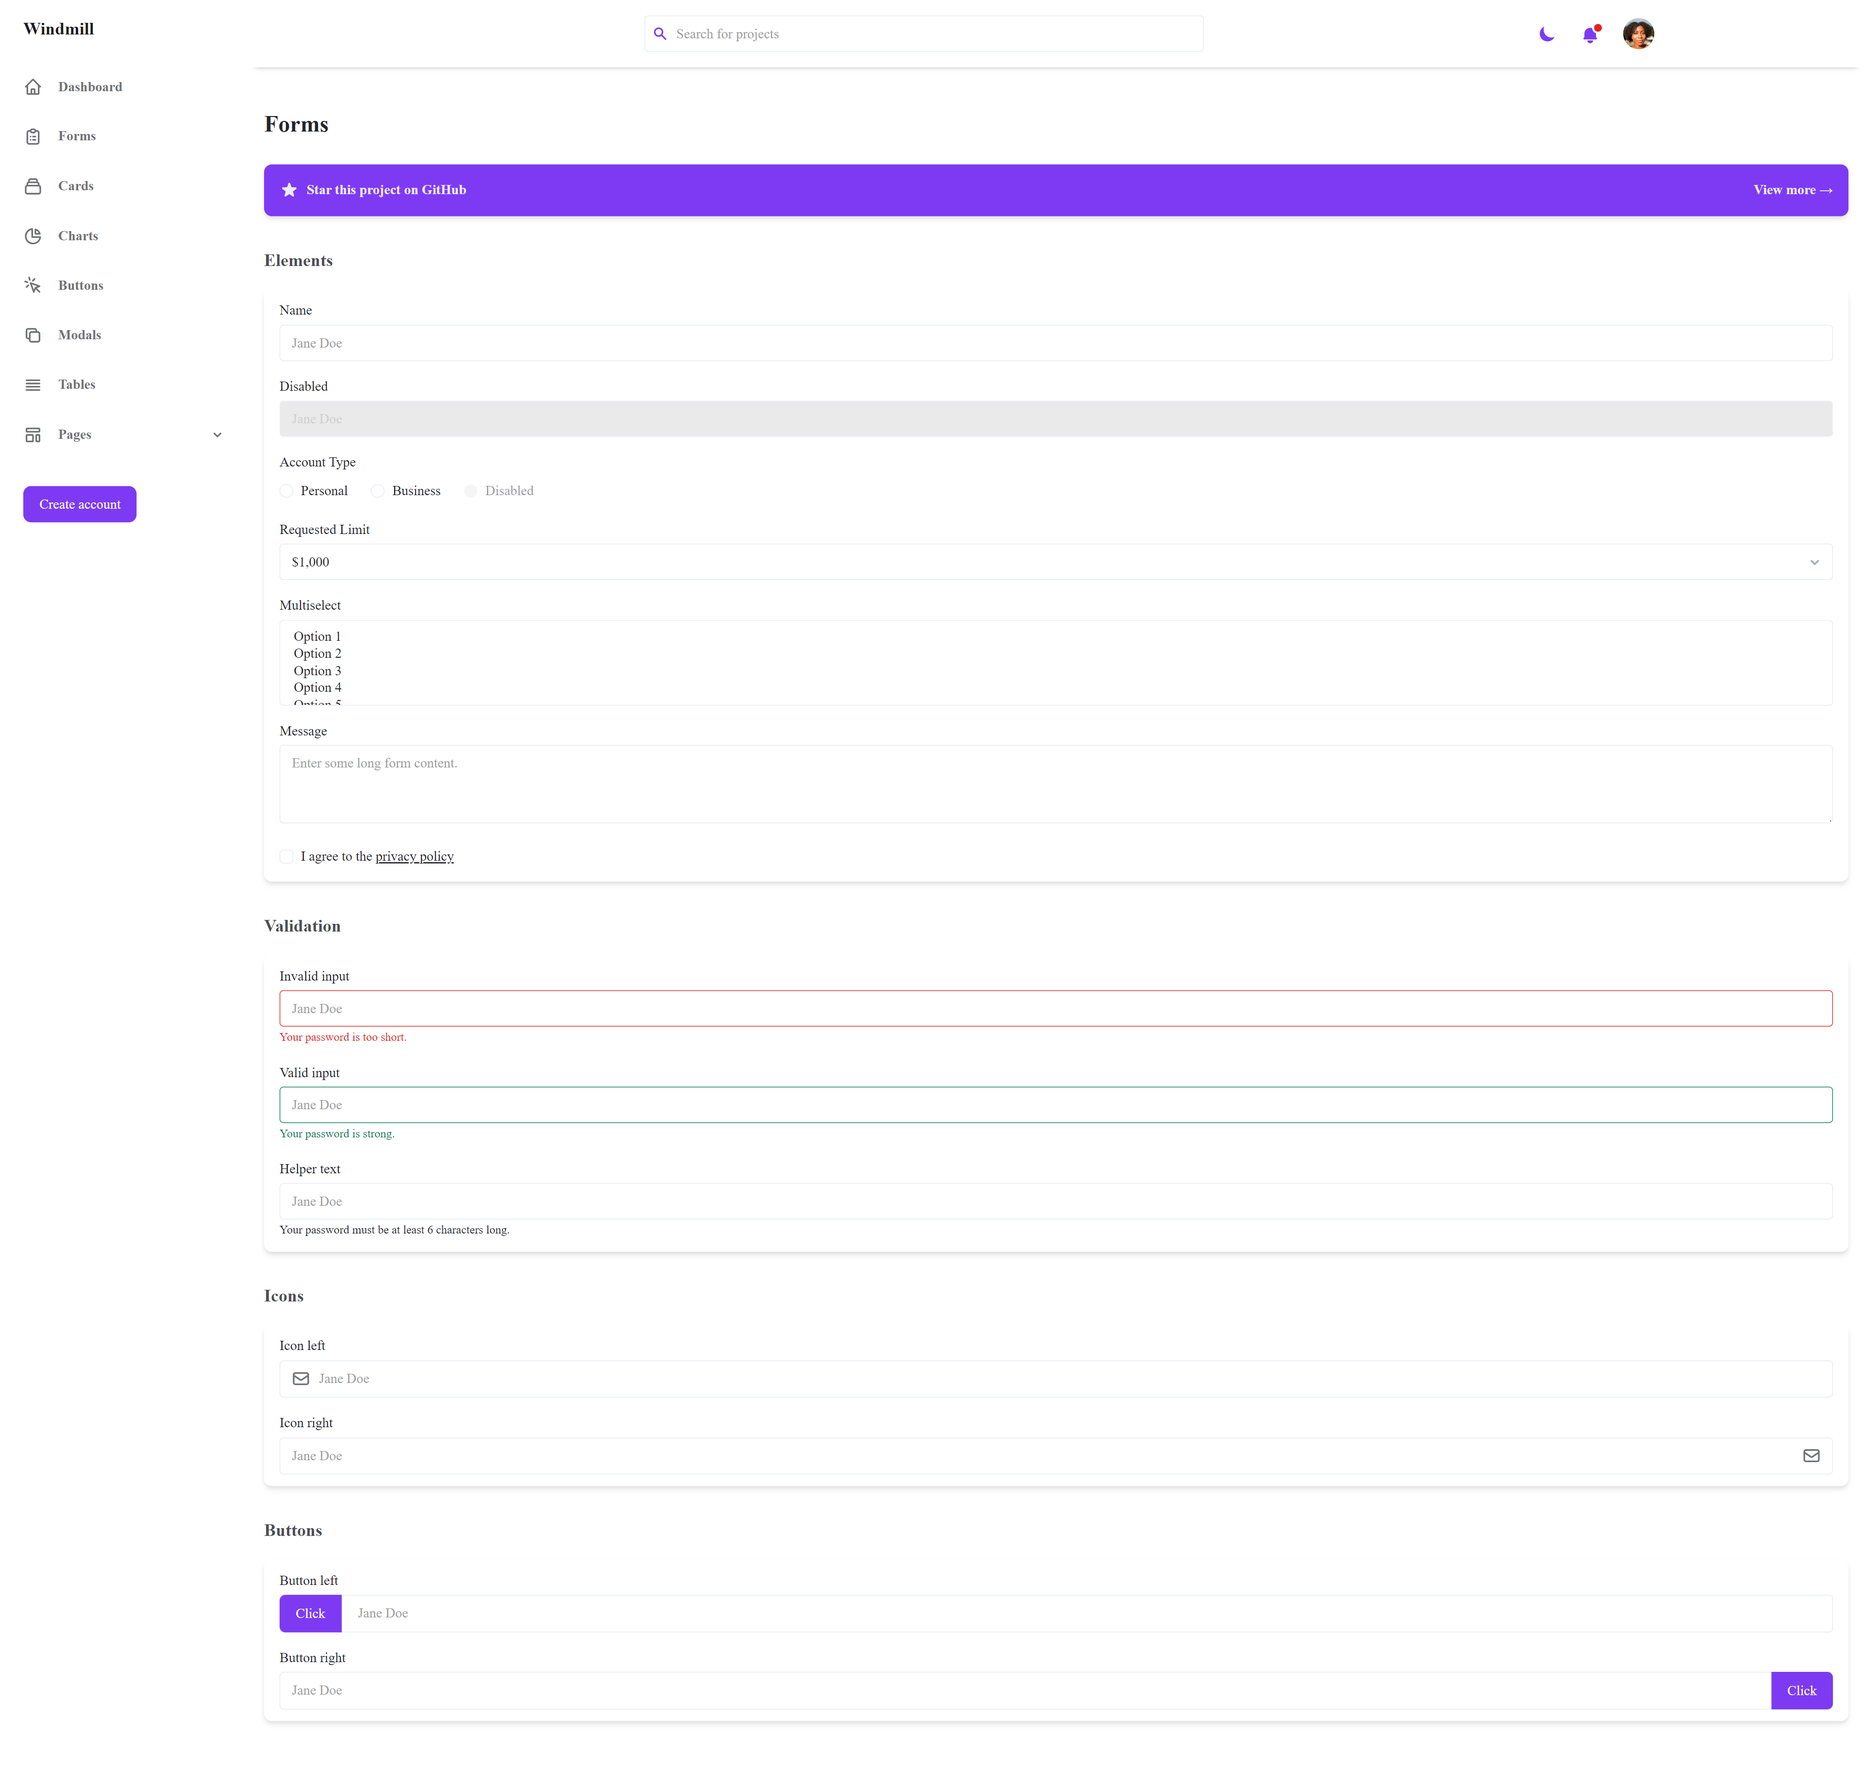
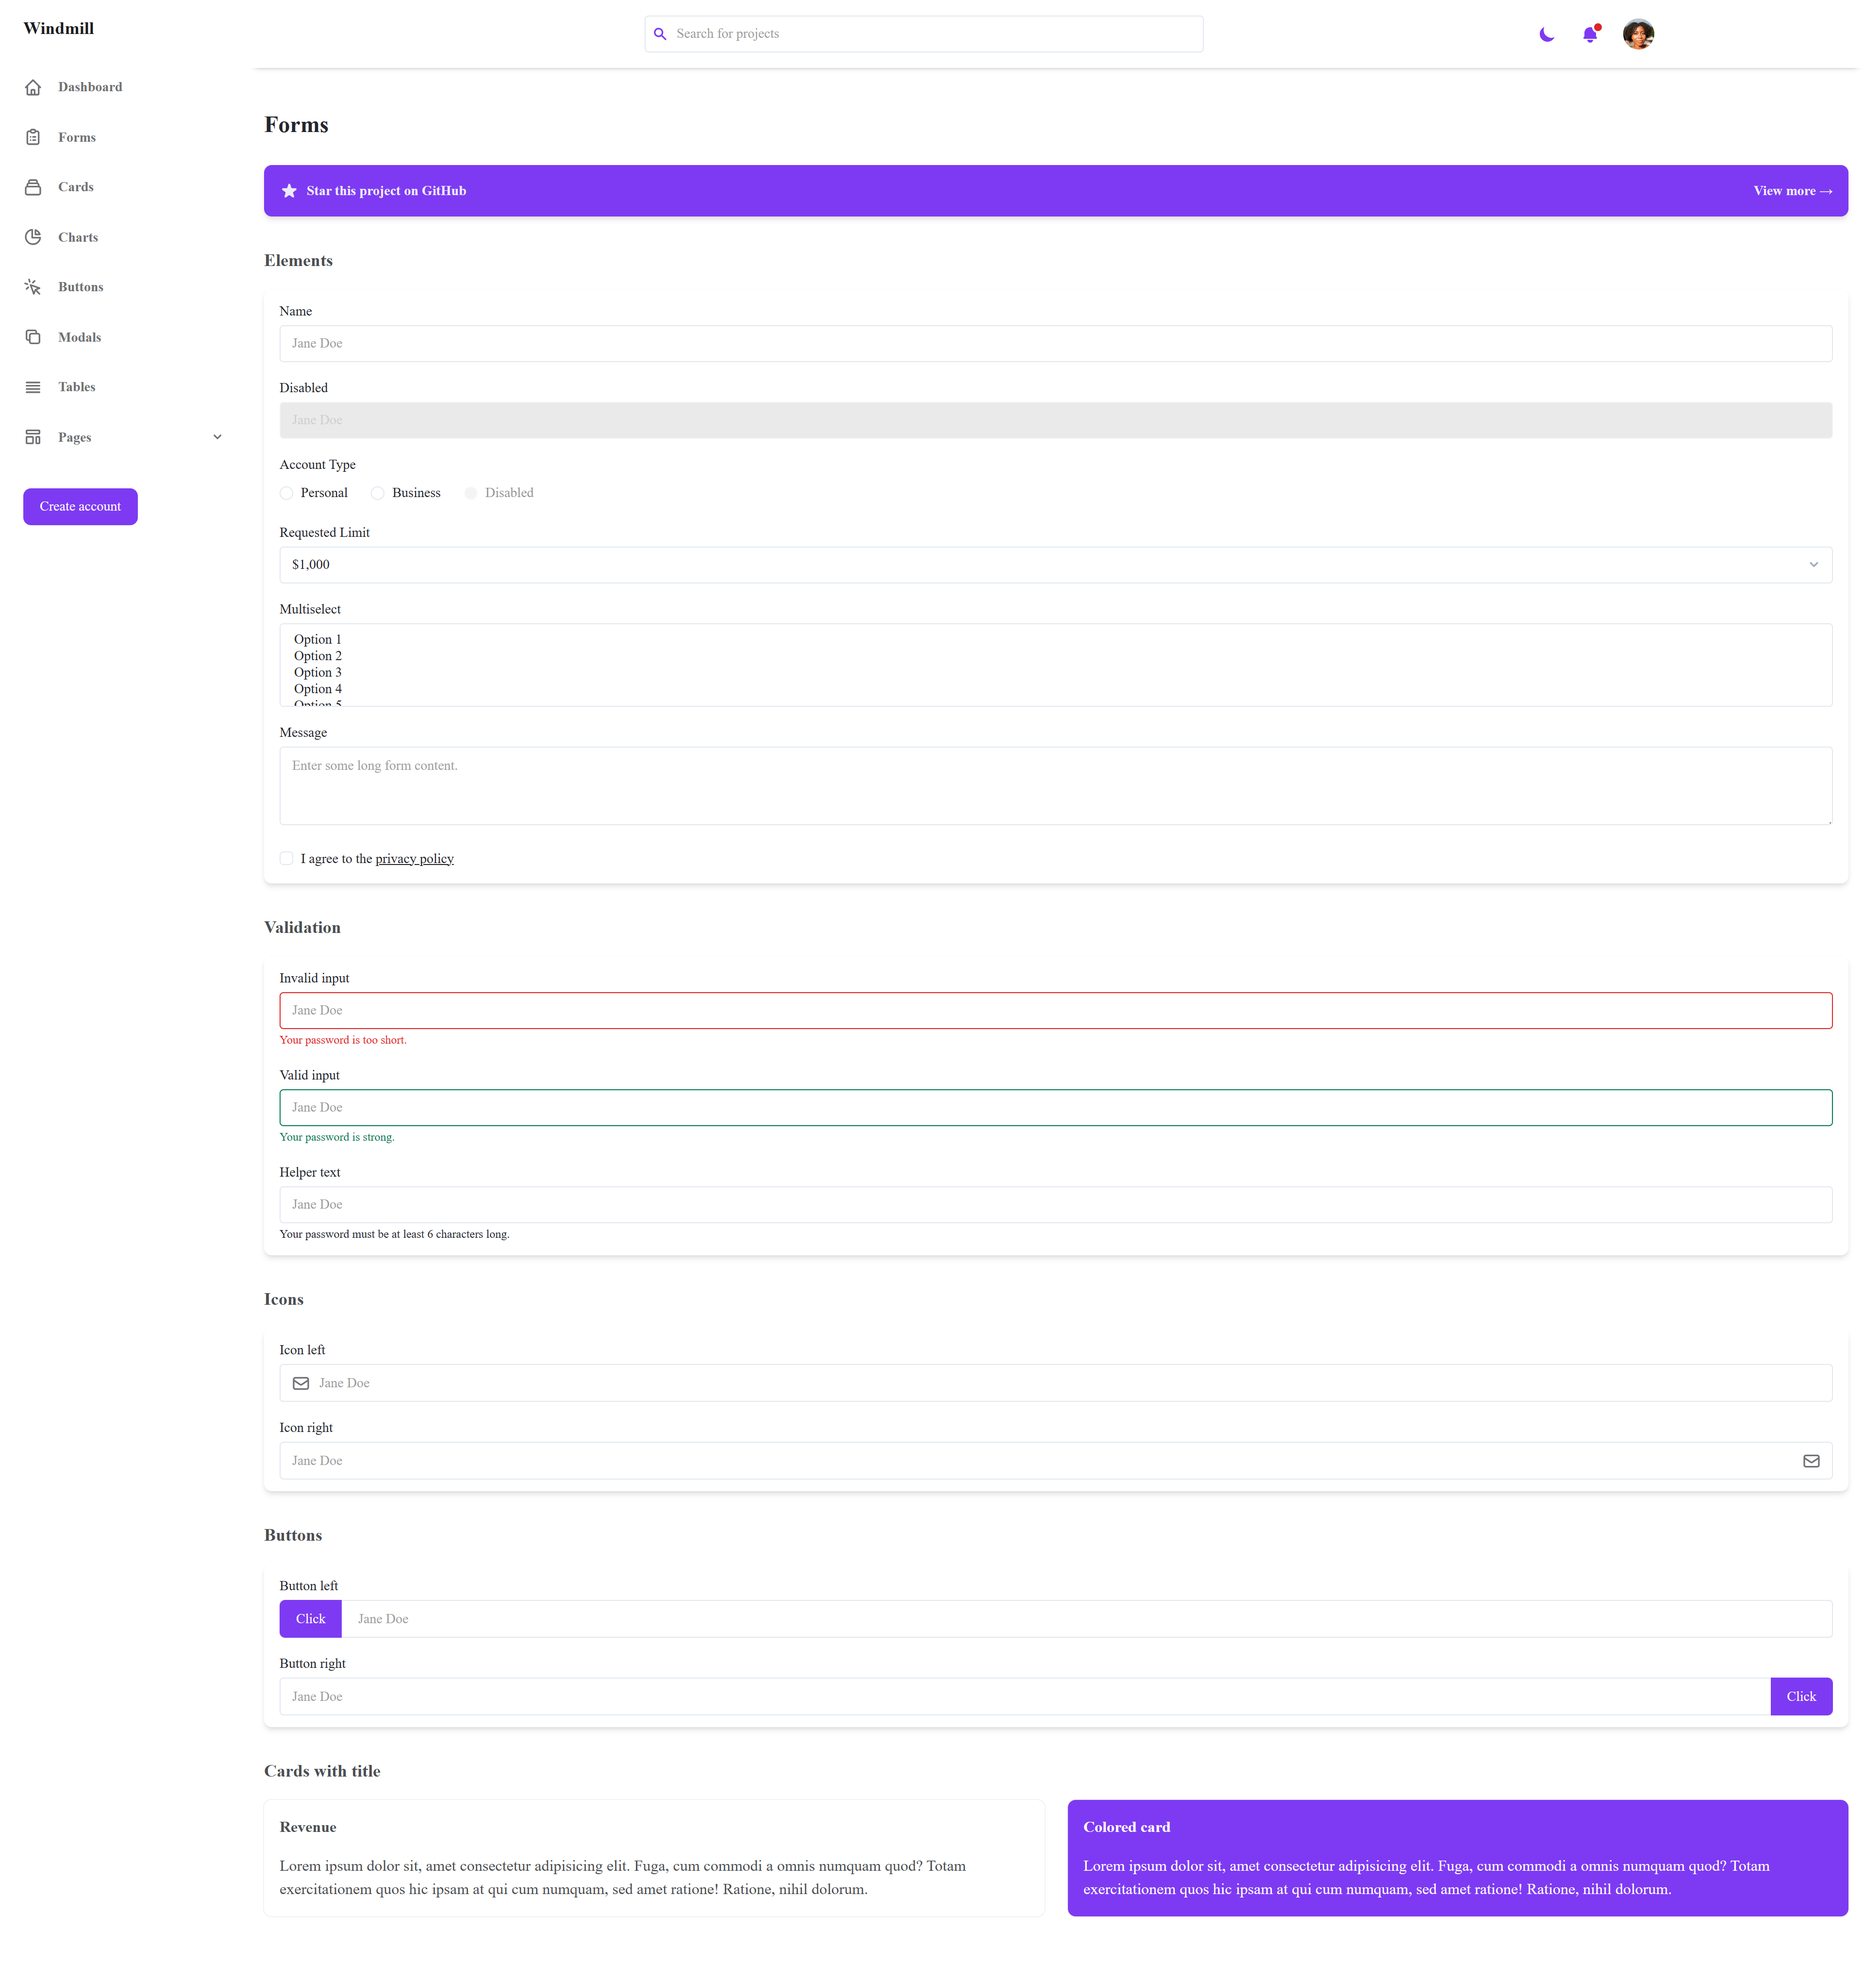
ca_12

diff --git a/src/pages/FormsPage.js b/src/pages/FormsPage.js
@@ -1,6 +1,6 @@
 import React from 'react'
 
-import { Input, HelperText, Label, Select, Textarea } from '@windmill/react-ui'
+import { Input, HelperText, Label, Select, Textarea, Card, CardBody } from '@windmill/react-ui'
 
 import { MailIcon } from '../assets/icons'
 import CTA from '../components/CTA'
@@ -162,6 +162,32 @@ function FormsPage() {
           </div>
         </Label>
       </div>
+
+      <h2 className="mb-4 text-lg font-semibold text-gray-600 dark:text-gray-300">Cards with title</h2>
+
+<div className="grid gap-6 mb-8 md:grid-cols-2">
+  <Card className="cardWithHeading">
+    <CardBody>
+      <p className="mb-4 font-semibold text-gray-600 dark:text-gray-300">Revenue</p>
+      <p className="text-gray-600 dark:text-gray-400">
+        Lorem ipsum dolor sit, amet consectetur adipisicing elit. Fuga, cum commodi a omnis
+        numquam quod? Totam exercitationem quos hic ipsam at qui cum numquam, sed amet
+        ratione! Ratione, nihil dolorum.
+      </p>
+    </CardBody>
+  </Card>
+
+  <Card colored className="text-white bg-purple-600 cardWithHeading">
+    <CardBody>
+      <p className="mb-4 font-semibold">Colored card</p>
+      <p>
+        Lorem ipsum dolor sit, amet consectetur adipisicing elit. Fuga, cum commodi a omnis
+        numquam quod? Totam exercitationem quos hic ipsam at qui cum numquam, sed amet
+        ratione! Ratione, nihil dolorum.
+      </p>
+    </CardBody>
+  </Card>
+</div>
     </div>
   )
 }
